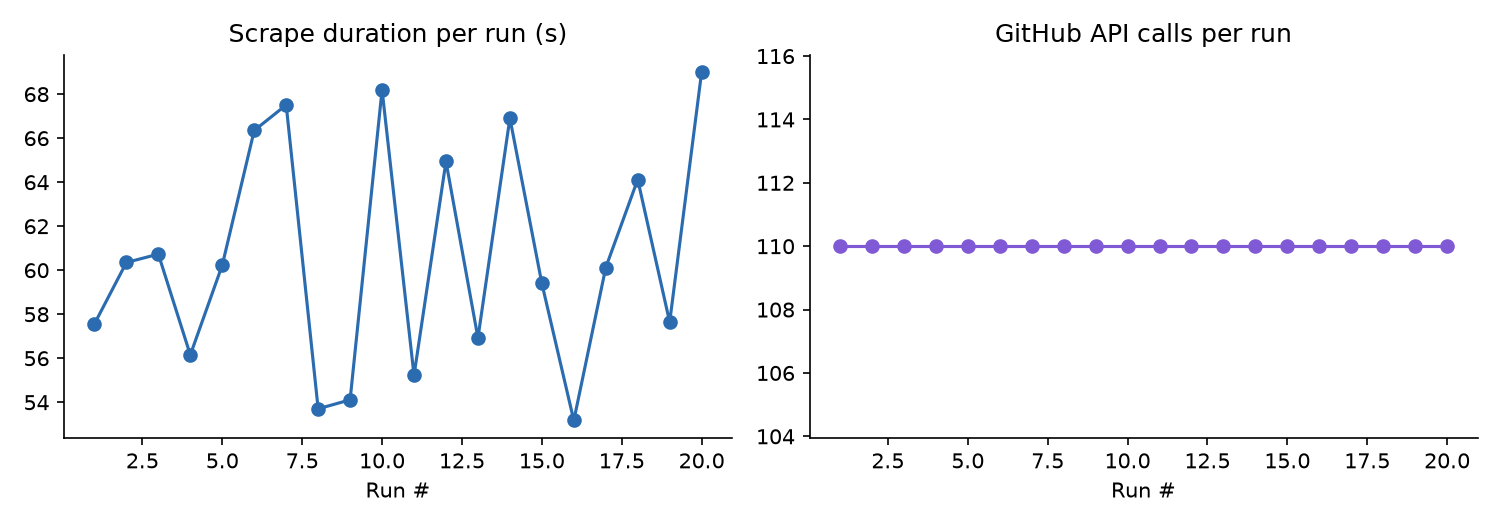
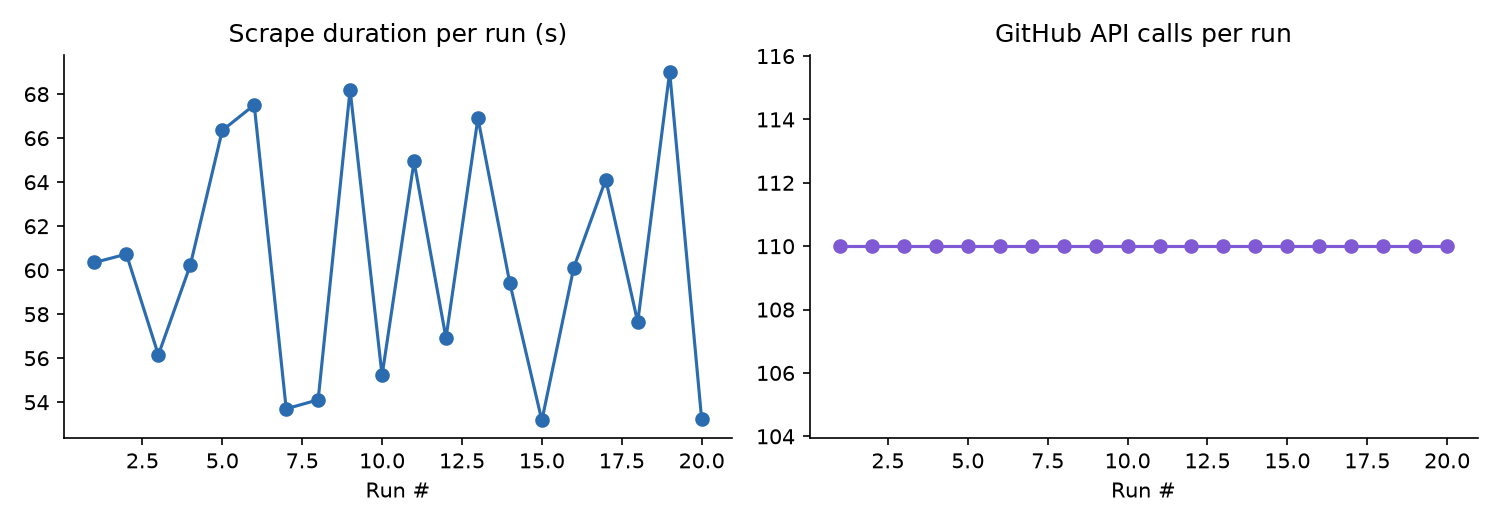
Weekly issue tracker refresh

Changed region(s): [[0.0613, 0.1219, 0.4907, 0.8229], [0.46, 0.7619, 0.4907, 0.8229]]

diff --git a/README.md b/README.md
@@ -81,7 +81,7 @@ See [CONTRIBUTING.md](CONTRIBUTING.md) for the full contributor workflow — inc
 
 <!-- TRACKER:START -->
 
-_Last updated: 2026-08-16 21:15 UTC_
+_Last updated: 2026-08-16 21:35 UTC_
 
 _Tracking **18** upstream repos, **386** relevant open issues._
 
@@ -296,7 +296,7 @@ _Tracking **18** upstream repos, **386** relevant open issues._
 
 <!-- METRICS:START -->
 
-_Last run: 2026-08-16 21:14 UTC, took **69.0s**, **110** GitHub API calls, **4560/5000** rate limit remaining._
+_Last run: 2026-08-16 21:34 UTC, took **53.2s**, **110** GitHub API calls, **4890/5000** rate limit remaining._
 
 ![Scrape metrics trend](assets/metrics_trend.png)
 
